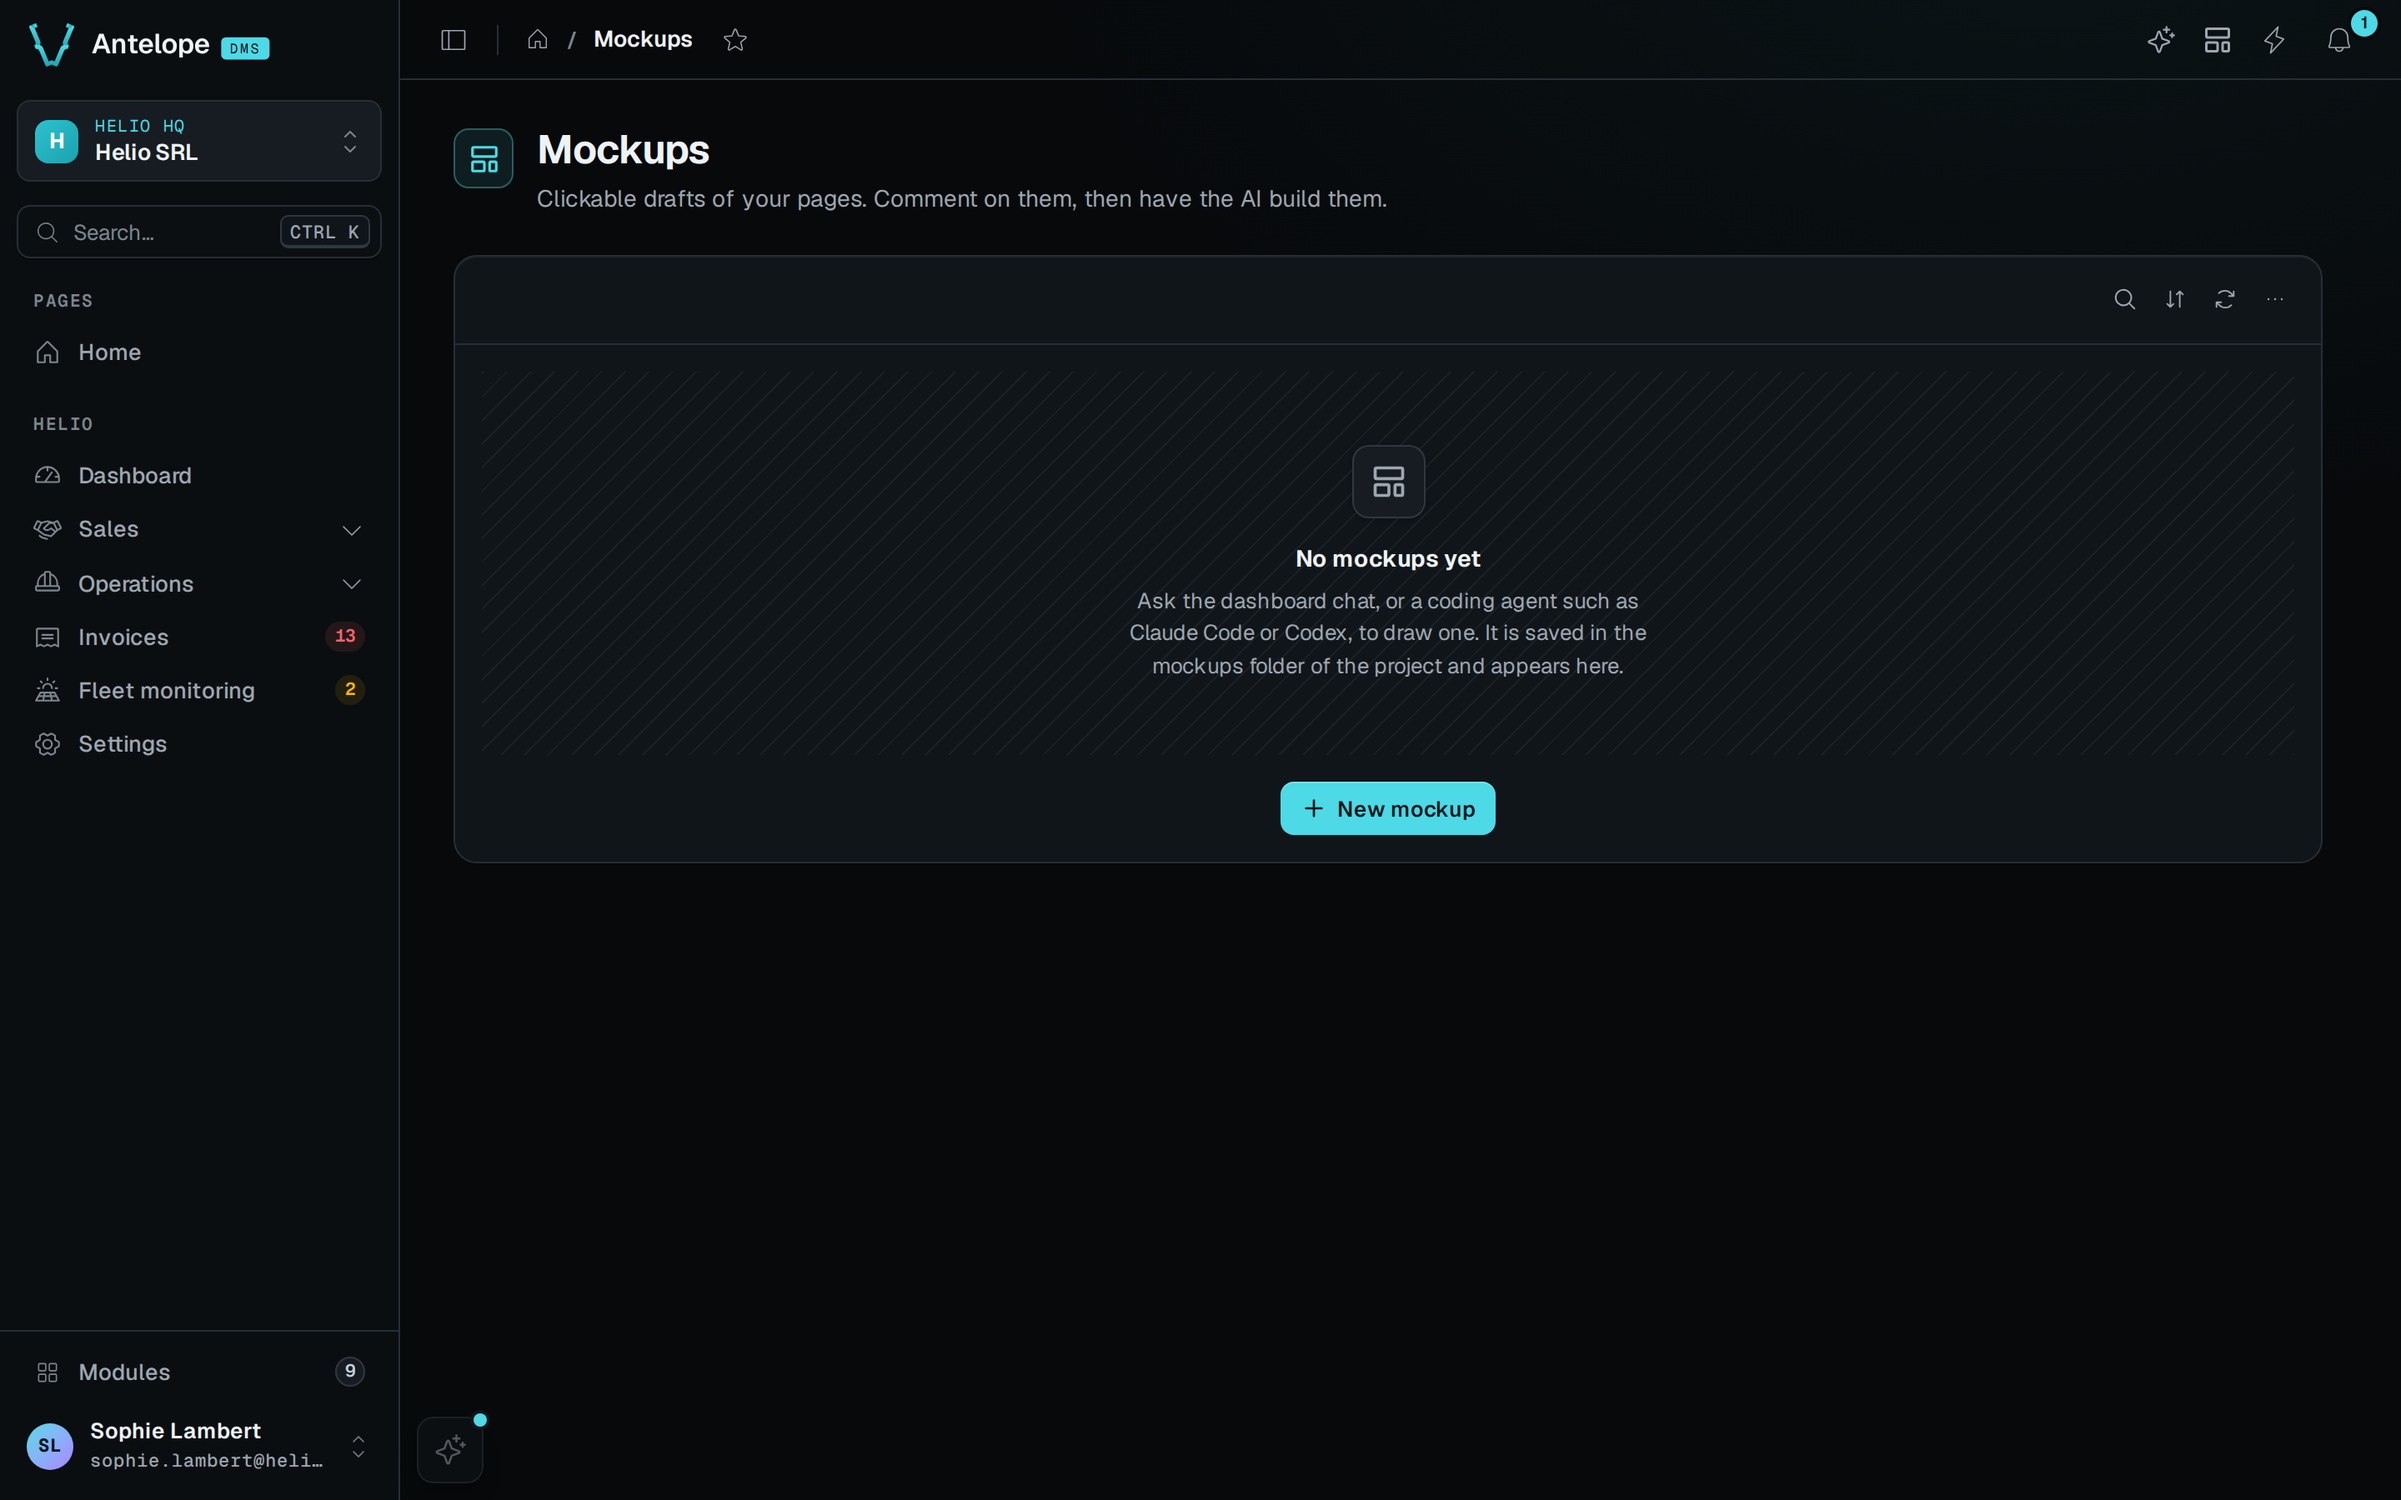
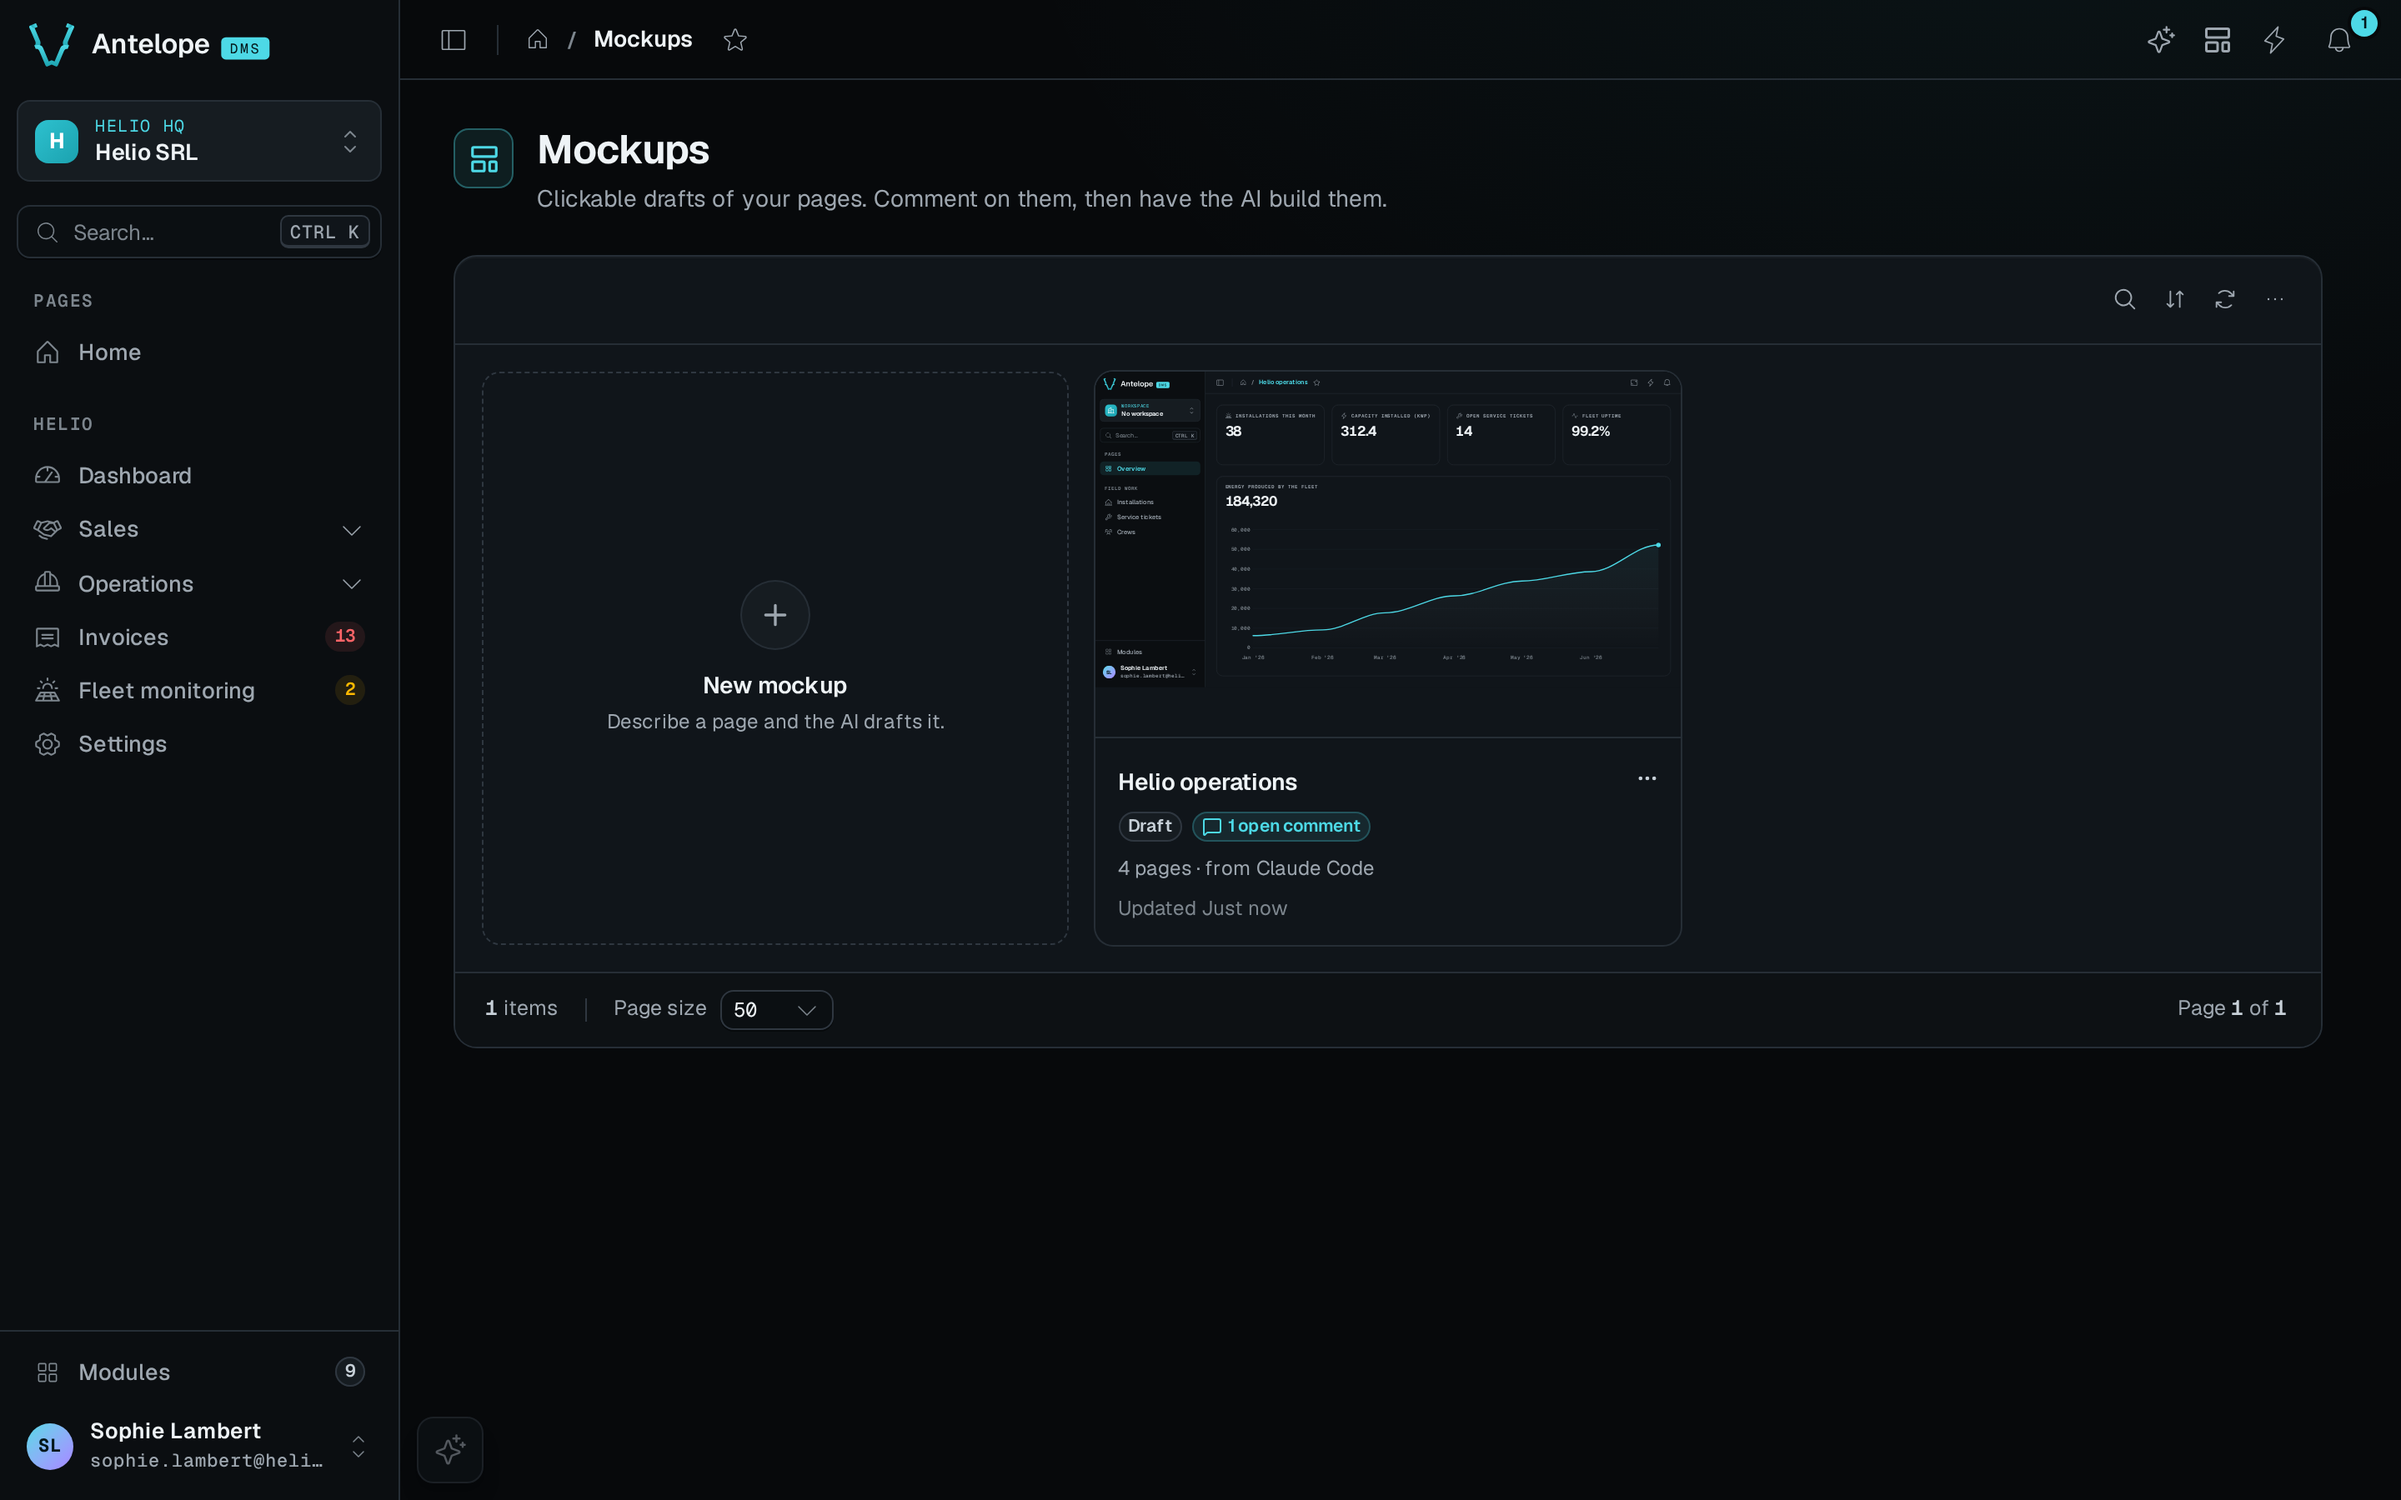
docs(mockups): capture the viewer, a comment pin and History on the Helio sample mockup

diff --git a/docs/captures.ts b/docs/captures.ts
@@ -190,7 +190,45 @@ export default defineScenes([
   {
     id: "mockups-page",
     route: "/mockups",
-    steps: [{ action: "wait", selector: 'text="New mockup"' }],
+    steps: [{ action: "wait", selector: 'text="Helio operations"' }],
     output: "packages/dms/docs/images/captures/mockups-page.webp",
+  },
+  {
+    id: "mockup-overview",
+    route: "/mockup?name=helio-ops",
+    steps: [{ action: "wait", selector: "[data-dms-mockup-overview-frame]" }],
+    output: "packages/dms/docs/images/captures/mockup-overview.webp",
+  },
+  {
+    id: "mockup-page",
+    route: "/mockup?name=helio-ops&page=overview",
+    steps: [
+      {
+        action: "wait",
+        selector: '[data-dms-mockup-pin="split-installations"]',
+      },
+    ],
+    output: "packages/dms/docs/images/captures/mockup-page.webp",
+  },
+  {
+    id: "mockup-comment",
+    route: "/mockup?name=helio-ops&page=overview",
+    steps: [
+      {
+        action: "click",
+        selector: '[data-dms-mockup-pin="split-installations"]',
+      },
+      { action: "wait", selector: "[data-dms-mockup-pin-card]" },
+    ],
+    output: "packages/dms/docs/images/captures/mockup-comment.webp",
+  },
+  {
+    id: "mockup-history",
+    route: "/mockup?name=helio-ops&page=overview",
+    steps: [
+      { action: "click", selector: "[data-dms-mockup-history]" },
+      { action: "wait", selector: '[data-dms-mockup-version="1"]' },
+    ],
+    output: "packages/dms/docs/images/captures/mockup-history.webp",
   },
 ]);

diff --git a/packages/dms/docs/08.ai-and-claude-code/3.mockups/2.comments.md b/packages/dms/docs/08.ai-and-claude-code/3.mockups/2.comments.md
@@ -14,6 +14,8 @@ A mockup opens on its Overview. Every page sits on one canvas, in the sidebar's 
 - To open a page, double-click its frame, or select it and click **Open**.
 - To go back to the Overview, click the ✕ at the top right of the canvas, or press `Esc`.
 
+![The Overview of the Helio operations mockup: the Overview page with its open comment, then the Installations, Service tickets and Crews pages under the Field work section](../../images/captures/mockup-overview.webp)
+
 Nothing is edited on the Overview. Comments work there as on a page.
 
 ## Pin a comment
@@ -23,6 +25,8 @@ Nothing is edited on the Overview. Comments work there as on a page.
 3. Write the comment, then click **Comment**.
 
 A comment on a block follows that block when the agent moves or edits it. It stays at the same spot of the block on desktop and on mobile. A comment pinned on the page header is a comment on the page.
+
+![A comment pinned on the Installations this month card, its card open with Resolve, Close and Save](../../images/captures/mockup-comment.webp)
 
 To change a comment, click its pin. The card lets you edit the text, resolve or reopen the comment, or delete it. Drag a pin onto another block to move the comment there.
 
@@ -50,6 +54,8 @@ Each write of the spec adds a version. Click **History** to list them in the rig
 
 1. Select a version. The canvas draws it read-only, with the comments pinned on it.
 2. Click **Restore** to make it the current spec, or **Back to current** to leave. `Esc` also goes back.
+
+![The History panel of the Helio operations mockup, listing its first version, created with 4 pages, with 2 comments](../../images/captures/mockup-history.webp)
 
 A restore adds a new version and keeps the others. Comments stay on the versions they were pinned on.
 

diff --git a/packages/dms/docs/08.ai-and-claude-code/3.mockups/1.viewer.md b/packages/dms/docs/08.ai-and-claude-code/3.mockups/1.viewer.md
@@ -10,7 +10,7 @@ The Mockups page lists the [mockups](/docs/ai-and-claude-code/mockups) of the pr
 
 The **Mockups** icon in the dashboard's header opens `/mockups`. The page has no menu entry. Each mockup is a card that opens it in the viewer.
 
-![The Mockups page of the Helio demo, with no mockup yet and the New mockup button](../../images/captures/mockups-page.webp)
+![The Mockups page of the Helio demo: the New mockup card, then the Helio operations card, a draft from Claude Code with 1 open comment](../../images/captures/mockups-page.webp)
 
 A card shows:
 
@@ -36,6 +36,8 @@ When an agent creates a mockup while you are on the Mockups page, the viewer ope
 | Left panel | The block catalog, the page's layers, and the **Pages** tab. |
 | Canvas | The current page, or the [Overview](/docs/ai-and-claude-code/mockups/comments#browse-every-page-on-the-overview) of every page. |
 | Right panel | The inspector of the selected block or page, or the version list of **History**. |
+
+![The viewer on the Overview page of the Helio operations mockup: the block catalog on the left, the page in the canvas with a comment pin, the page inspector on the right](../../images/captures/mockup-page.webp)
 
 Click the title to rename the mockup. Enter or a click away saves it, and Escape cancels. The folder name stays the same.
 
